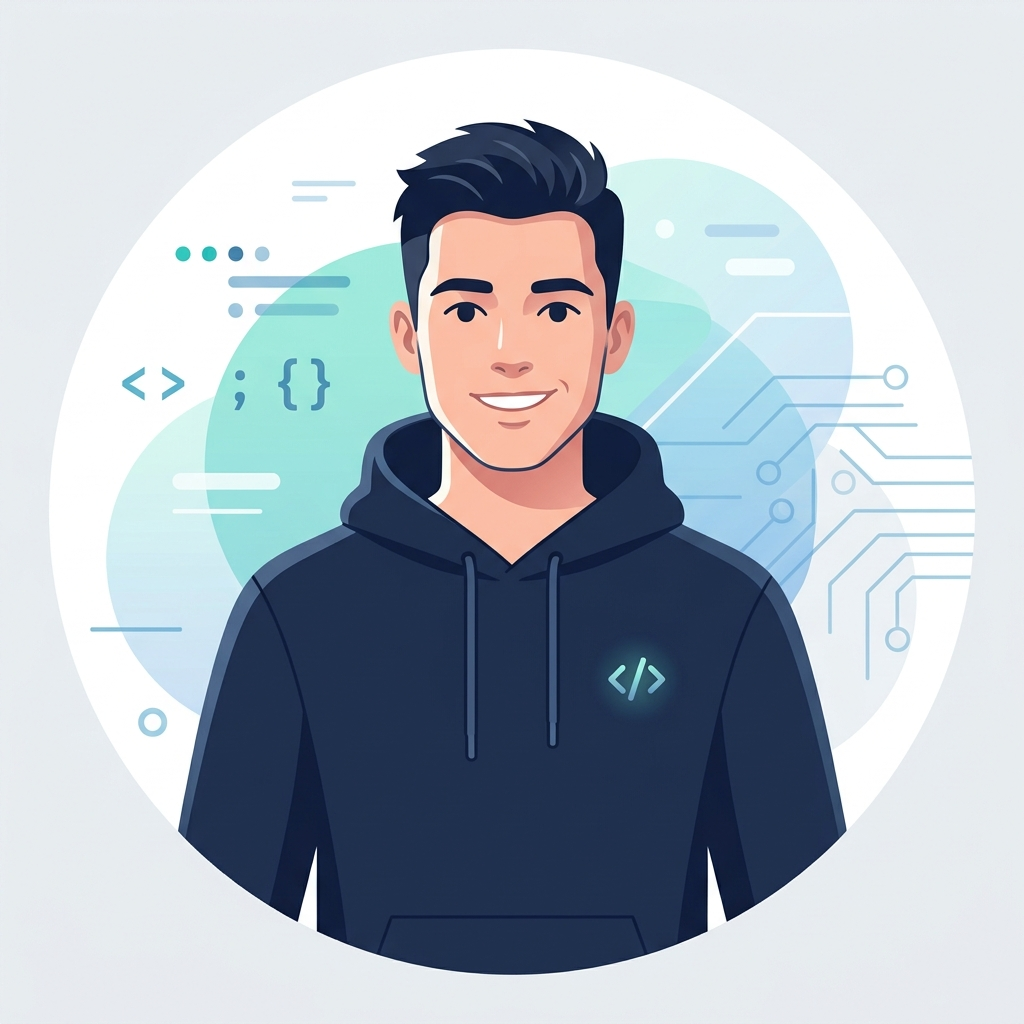
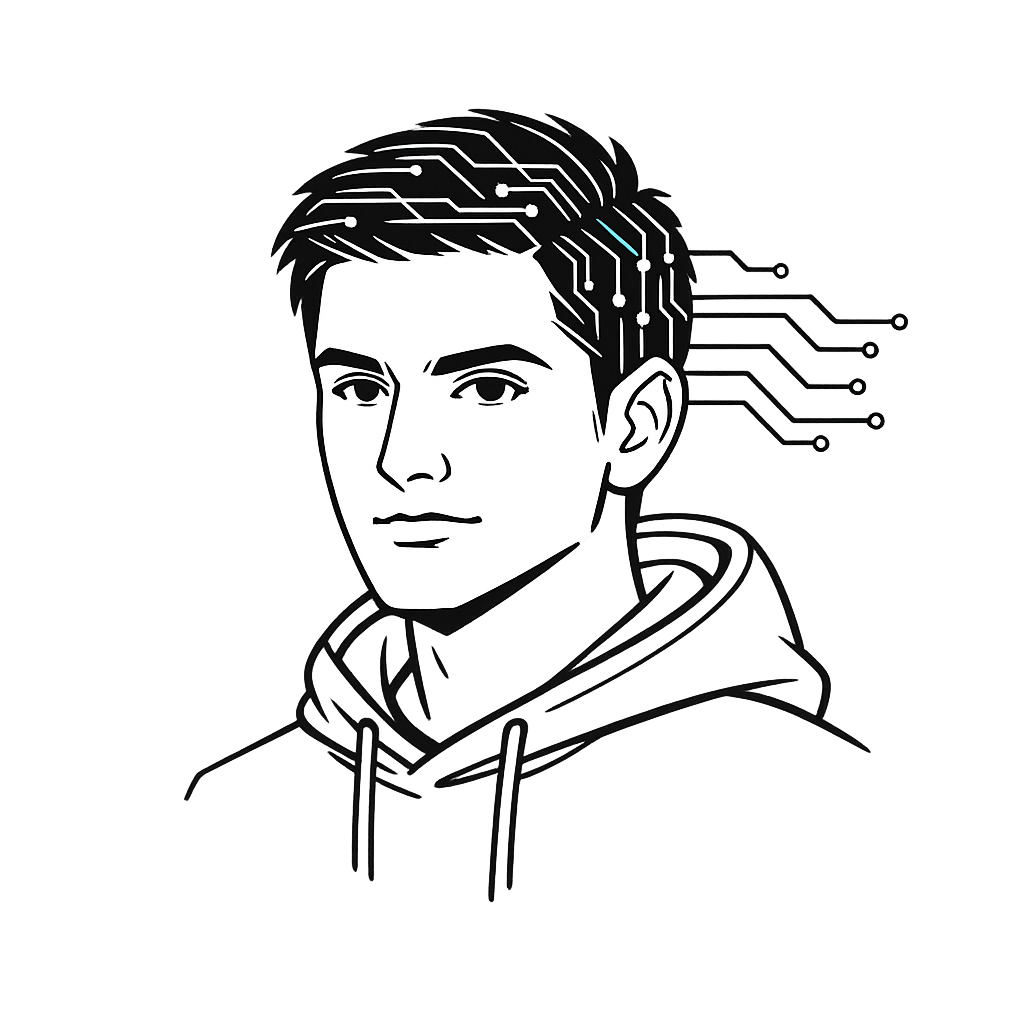
feat: implement interactive certifications component with modular PDF viewer and add new assets

diff --git a/src/components/Certifications.tsx b/src/components/Certifications.tsx
@@ -4,8 +4,27 @@ import { motion, AnimatePresence } from 'framer-motion';
 import { certificationsData } from '../data/portfolio';
 import { useScrollReveal } from '../hooks/useScrollReveal';
 import { useScrollTilt } from '../hooks/useScrollTilt';
+import { FcGoogle } from 'react-icons/fc';
+import { SiCoursera, SiUdemy } from 'react-icons/si';
+import { Award, Shield, Monitor, FileBadge } from 'lucide-react';
 
 const easeSmooth = [0.23, 1, 0.32, 1] as const;
+
+const getIssuerLogo = (issuer: string, fallbackIcon: React.ReactNode) => {
+  if (!issuer) return <FileBadge size={36} color="#64748b" />;
+  const i = issuer.toLowerCase();
+  if (i.includes('google')) return <FcGoogle size={36} />;
+  if (i.includes('coursera')) return <SiCoursera size={36} color="#0056D2" />;
+  if (i.includes('udemy')) return <SiUdemy size={36} color="#A435F0" />;
+  if (i.includes('certiport')) return <Award size={36} color="#3b82f6" />;
+  if (i.includes('navttc')) return <Monitor size={36} color="#10b981" />;
+  if (i.includes('security') || i.includes('soc')) return <Shield size={36} color="#f59e0b" />;
+  
+  if (typeof fallbackIcon === 'string') {
+    return <span className="text-4xl">{fallbackIcon}</span>;
+  }
+  return <FileBadge size={36} color="#64748b" />;
+};
 
 /* ── Card grid item ── */
 const CertCard = ({ cert, index, onClick, isActive }: {
@@ -23,7 +42,7 @@ const CertCard = ({ cert, index, onClick, isActive }: {
       onClick={() => onClick(cert)}
       onMouseEnter={() => setHovered(true)}
       onMouseLeave={() => setHovered(false)}
-      className={`flip-child light-card p-5 flex flex-col relative overflow-hidden cursor-pointer transition-all duration-300 min-h-[200px] scroll-reveal-child ${
+      className={`group flip-child light-card p-5 flex flex-col relative overflow-hidden cursor-pointer transition-all duration-300 min-h-[200px] scroll-reveal-child border-l-[4px] border-l-[#3b82f6] ${
         isActive ? 'scale-[1.06] -translate-y-3 shadow-2xl z-20' : 'hover:-translate-y-0.5'
       }`}
       style={{ transitionDelay: `${index * 0.08}s`, '--i': index, background: 'var(--bg-base)' } as React.CSSProperties}
@@ -42,20 +61,30 @@ const CertCard = ({ cert, index, onClick, isActive }: {
         </span>
       </div>
 
-      <div className="flex items-start gap-3 mb-4">
-        <div className="w-10 h-10 rounded-xl bg-[#16A34A]/20 flex items-center justify-center text-base flex-shrink-0 border border-[#16A34A]/40">
-          {cert.icon}
+      {/* Floating Creative Logo Top Right */}
+      <div className="absolute top-5 right-5 z-0 flex items-center justify-center group-hover:scale-110 group-hover:rotate-6 transition-all duration-500">
+        <div className="relative">
+          <div className="absolute inset-0 bg-[#3b82f6] opacity-10 blur-xl rounded-full scale-150 group-hover:opacity-30 transition-opacity duration-500"></div>
+          <div className="relative drop-shadow-md">
+            {getIssuerLogo(cert.issuer, cert.icon)}
+          </div>
         </div>
-        <div className="flex-1 min-w-0">
-          <h3 className="text-card font-display mb-1 leading-tight" style={{ color: 'var(--text-primary)' }}>{cert.title}</h3>
-          <p className="text-[11px] font-semibold" style={{ color: 'var(--green-mid)' }}>{cert.issuer}</p>
+      </div>
+
+      <div className="mb-5 pr-14 relative z-10">
+        <div className="flex items-center gap-2 mb-1.5">
+          <span className="w-4 h-[2px] bg-[#3b82f6] rounded-full"></span>
+          <p style={{ color: '#64748b', fontWeight: 600, fontSize: '0.75rem', textTransform: 'uppercase', letterSpacing: '0.06em' }}>
+            {cert.issuer}
+          </p>
         </div>
+        <h3 className="font-display leading-snug" style={{ color: 'var(--text-primary)', fontWeight: 800, fontSize: '1.15rem' }}>{cert.title}</h3>
       </div>
 
       <div className="flex-1">
         <div className="flex flex-wrap gap-1.5">
           {skills.slice(0, expanded ? skills.length : 3).map((skill) => (
-            <span key={skill} className="px-2 py-0.5 rounded bg-[#16A34A]/10 text-[11px] font-medium text-[#4ADE80] border border-[#16A34A]/30">
+            <span key={skill} className="px-2 py-0.5 rounded bg-[#f1f5f9] text-[11px] font-medium text-[#1e293b] border border-[#cbd5e1]">
               {skill}
             </span>
           ))}
@@ -63,19 +92,19 @@ const CertCard = ({ cert, index, onClick, isActive }: {
         {skills.length > 3 && (
           <button
             onClick={(e) => { e.stopPropagation(); setExpanded(!expanded); }}
-            className="mt-1.5 text-[11px] font-semibold text-[#f59e0b] hover:text-[#fcd34d] transition-colors"
+            className="mt-1.5 text-[11px] font-semibold text-[#1e293b] hover:text-[#334155] transition-colors"
           >
             {expanded ? 'Show Less' : `+${skills.length - 3} more`}
           </button>
         )}
       </div>
 
-      <div className="flex items-center justify-between gap-3 pt-3 mt-auto border-t border-[#16A34A]/20">
-        <span className="inline-flex items-center gap-1 px-2 py-0.5 rounded text-[10px] font-semibold bg-[#16A34A]/20 text-[#4ADE80]">
+      <div className="flex items-center justify-between gap-3 pt-3 mt-auto border-t border-[#cbd5e1]/40">
+        <span className="text-[0.85rem] font-medium text-[#64748b]">
           {cert.date}
         </span>
         {cert.credentialId && (
-          <span className="text-[10px] text-[#86efac] opacity-70">ID: {cert.credentialId}</span>
+          <span className="text-[10px] text-[#64748b] opacity-70">ID: {cert.credentialId}</span>
         )}
       </div>
     </div>

diff --git a/src/data/portfolio.ts b/src/data/portfolio.ts
@@ -182,6 +182,18 @@ export const projectsData = [
     metric: 'Security · SIEM',
   },
   {
+    title: 'Cyber-RAG — Cybersecurity Assistant',
+    description: 'Semantic search + Groq LLM over a Cybersecurity Attack Dataset (14.1k records). Features a SOC-style query console, personal pentesting Vault, and memory-augmented Super Assistant.',
+    tech: ['Python', 'FastAPI', 'React', 'ChromaDB', 'Groq LLM'],
+    language: 'Python',
+    github: 'https://github.com/RaoUmair55/Cyber-RAG',
+    live: null,
+    icon: '🧠',
+    image: '/project-cyber-rag.png',
+    featured: true,
+    metric: 'AI/ML · RAG',
+  },
+  {
     title: 'Relief Ops Management System',
     description: 'A disaster-relief operations platform focused on managing resources, coordination, and data workflows for real-world emergency scenarios.',
     tech: ['JavaScript', 'Database Systems', 'Management'],
